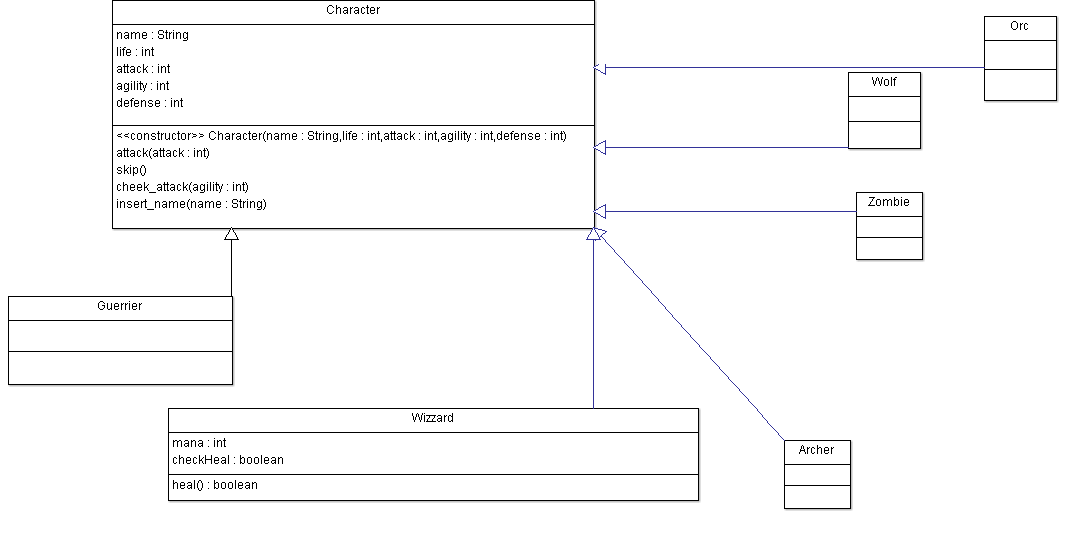
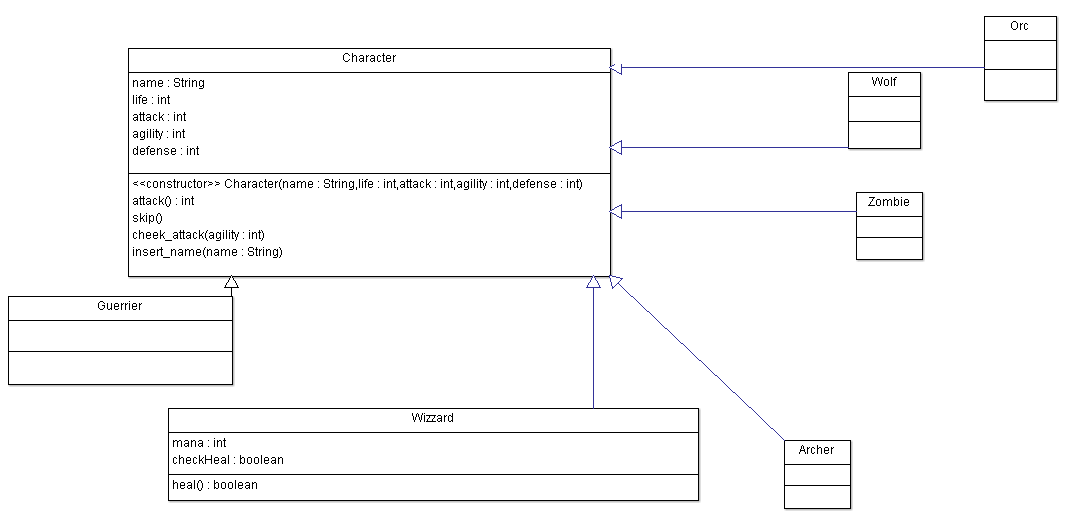
update diagram

diff --git a/character/character.py b/character/character.py
@@ -1,0 +1,14 @@
+class Character:
+    
+    def __init__(self,name,life,attack,agility,defense):
+        self.name=name
+        self._attack=attack
+        self.agility=agility
+        self.defense=defense
+    
+    @property
+    def attack(self):
+        return self._attack
+    
+
+        

diff --git a/main.py b/main.py
@@ -1,0 +1,4 @@
+from character.character import Character
+
+c=Character("emira",400,80,10,5)
+print(c)
